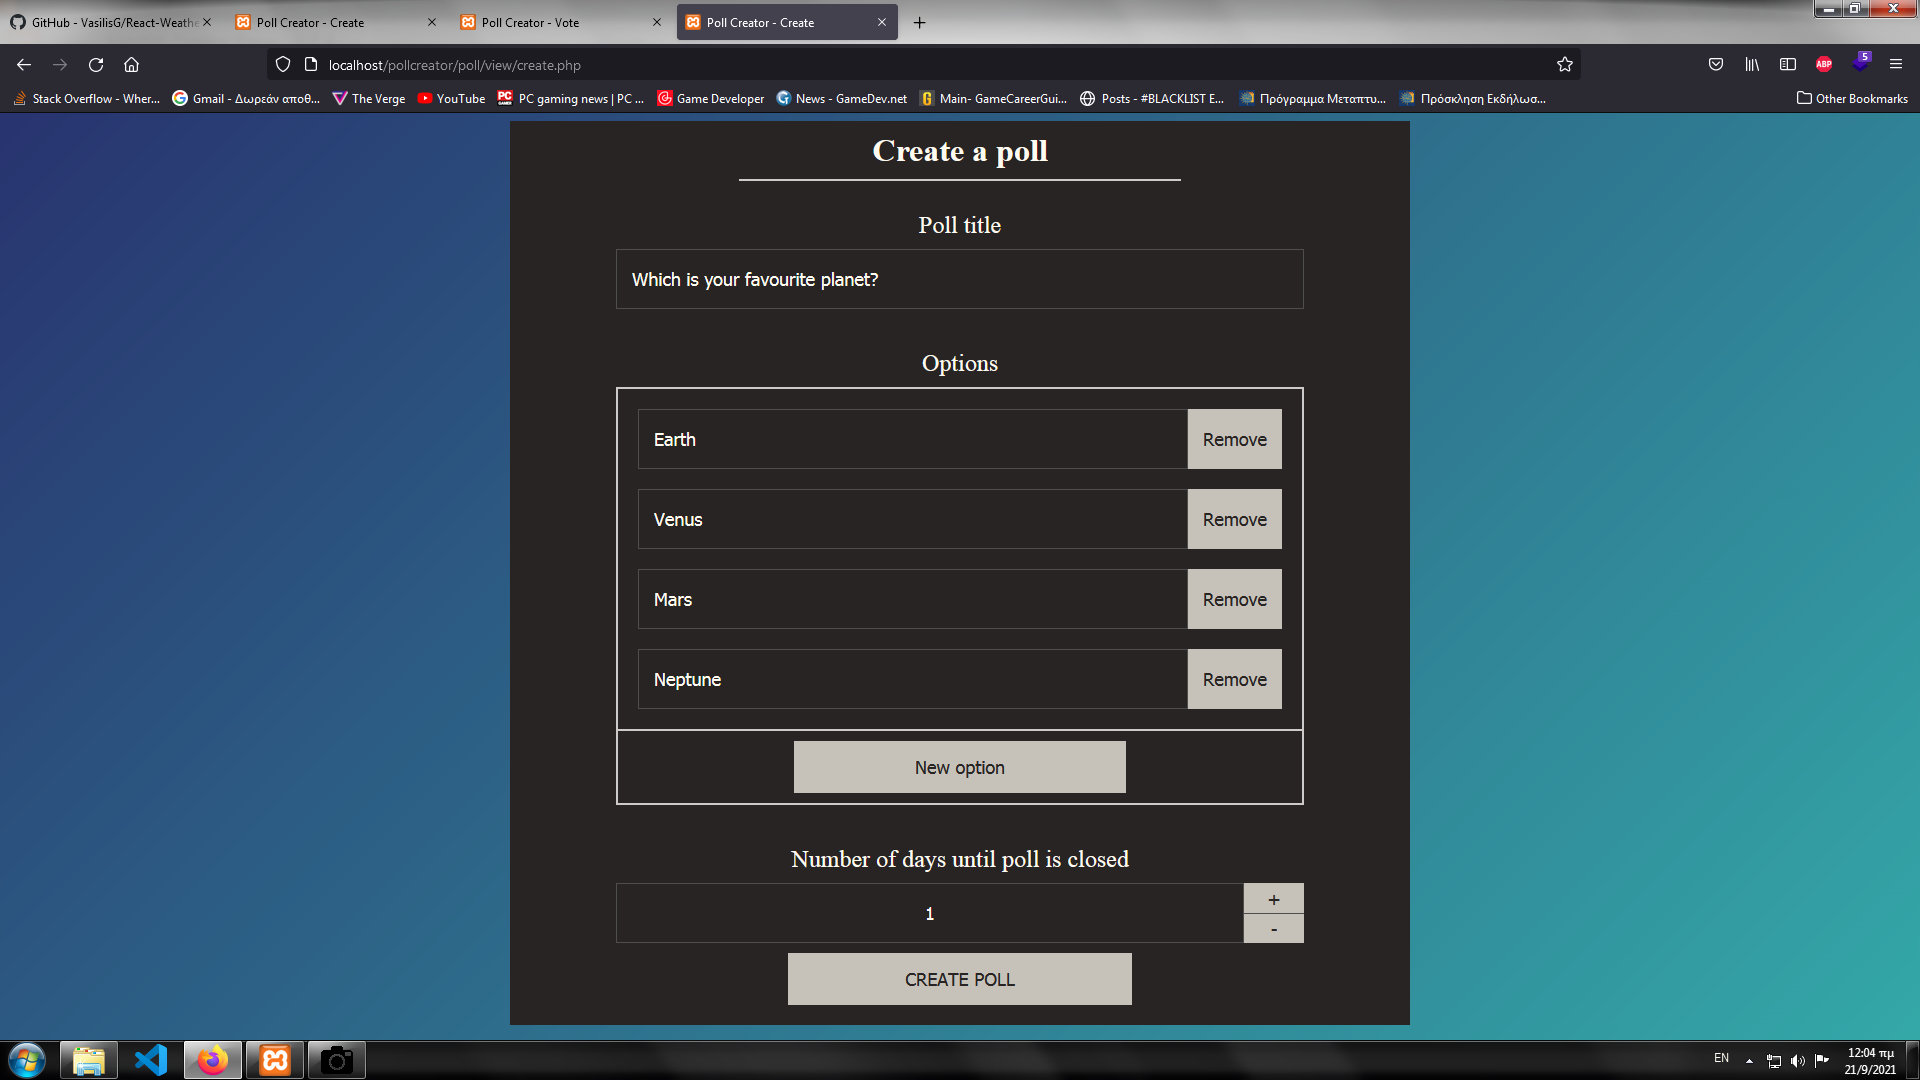
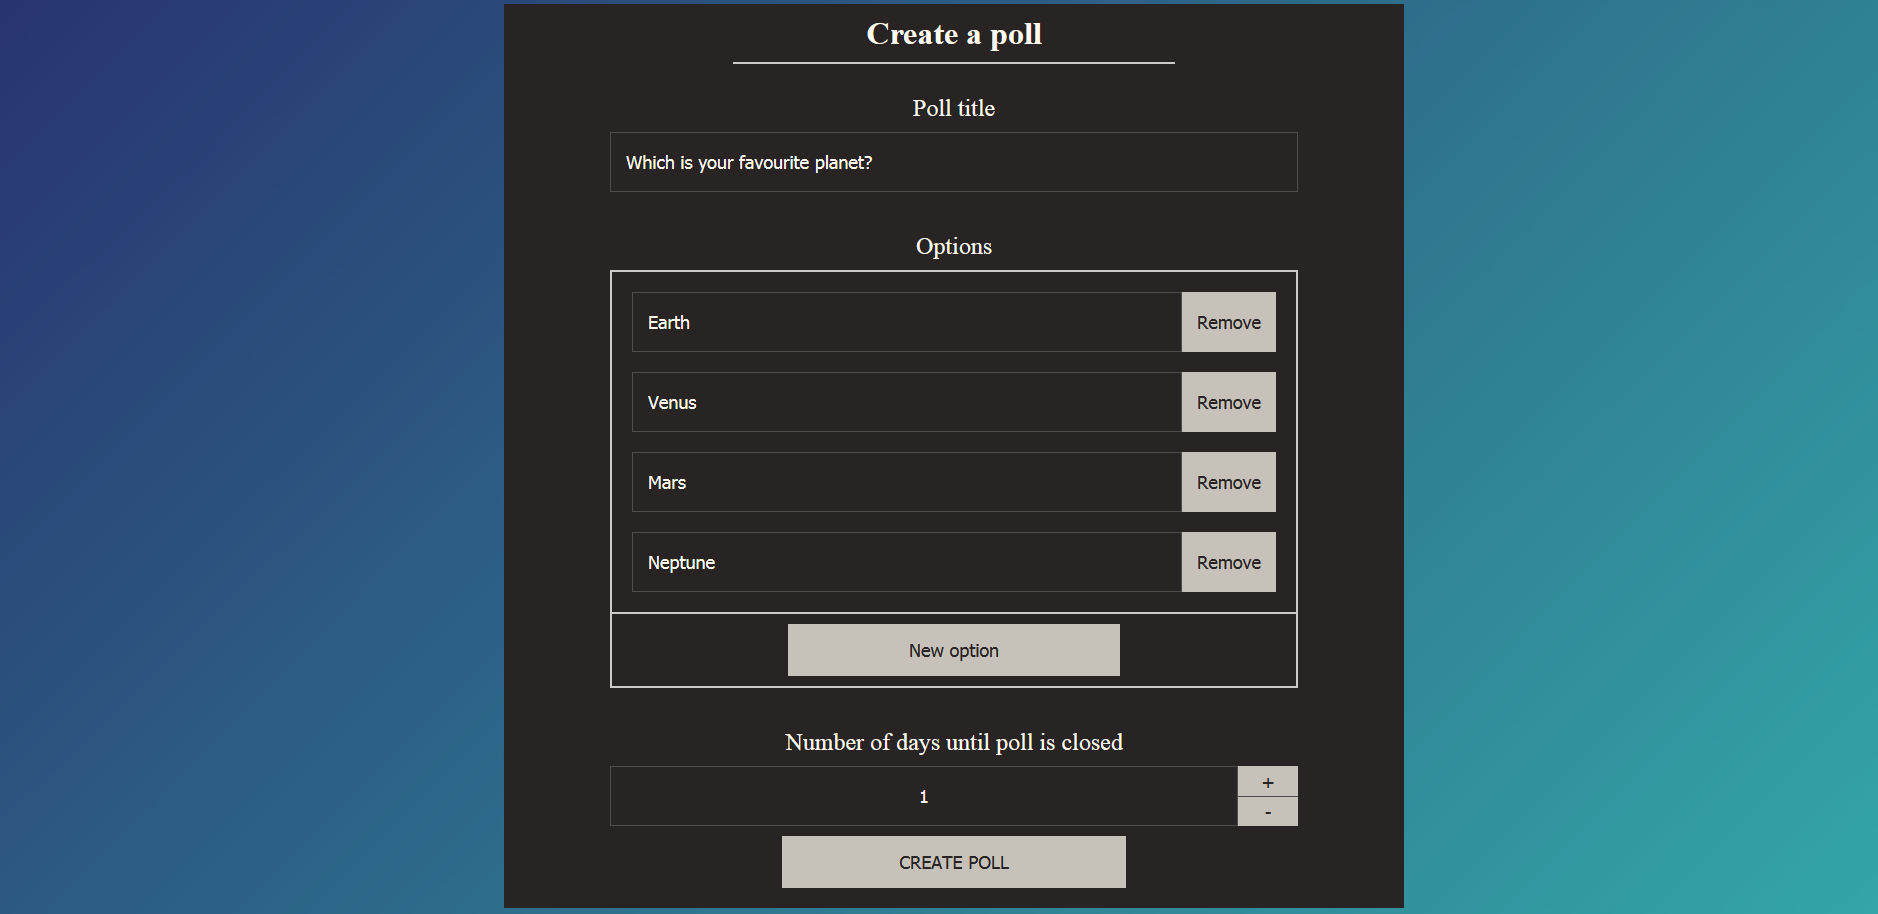
Asset changes and README update.

Changed region(s): [[0.0, 0.0, 1.0, 1.0], [0.3088, 0.2451, 0.6794, 0.8271], [0.3088, 0.2451, 0.4633, 0.2757]]

diff --git a/README.md b/README.md
@@ -1,2 +1,16 @@
 # Poll Creator
 A web app for creating polls made in PHP and jQuery.
+
+## Screenshots
+
+# Poll creation
+![alt text](https://github.com/VasilisG/Poll-Creator/blob/main/assets/images/scr1.png)
+
+# Poll redirect
+![alt text](https://github.com/VasilisG/Poll-Creator/blob/main/assets/images/scr2.png)
+
+# Poll vote
+![alt text](https://github.com/VasilisG/Poll-Creator/blob/main/assets/images/scr3.png)
+
+# Poll results
+![alt text](https://github.com/VasilisG/Poll-Creator/blob/main/assets/images/scr4.png)
